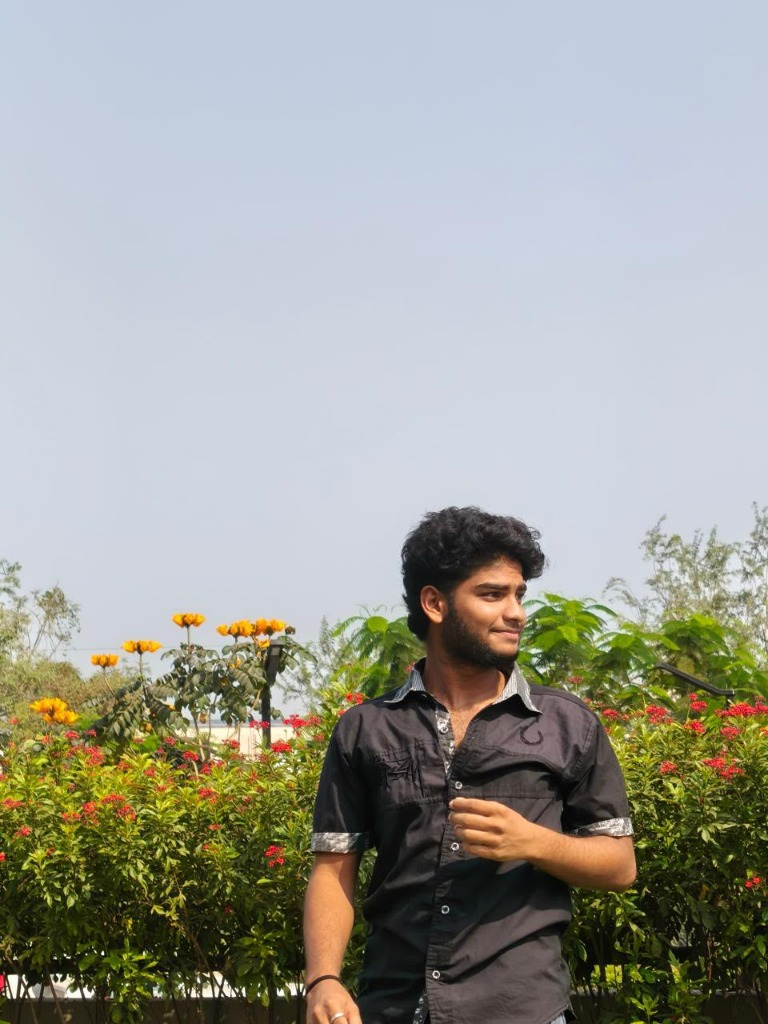
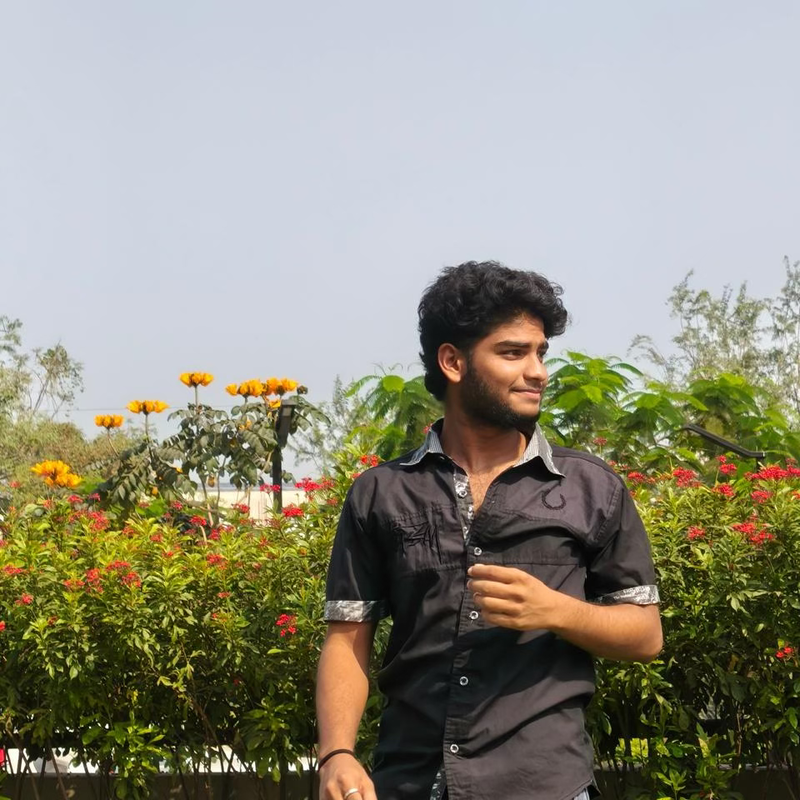
fix: update team profile photos to local assets and names

diff --git a/src/pages/LandingPage.tsx b/src/pages/LandingPage.tsx
@@ -493,27 +493,28 @@ export const LandingPage: React.FC = () => {
               {
                 name: "Chaitanya",
                 role: "Backend Developer",
-                image: "https://media.licdn.com/dms/image/v2/D5635AQFM2J_fwboIyA/profile-framedphoto-shrink_800_800/B56Z5pFAcCHkAY-/0/1779879381079?e=1788242400&v=beta&t=_nNuJ2Objk2Ya3RGUhMv2ZyybtHfLmjCGqQUPEgd-os",
+                image: "/chaitanya.png",
                 github: "https://github.com/GUTHACHAITANYA",
                 linkedin: "https://www.linkedin.com/in/gutha-chaitanya-282a27353/"
               },
               {
                 name: "Bharath Kumar",
                 role: "Backend Developer",
-                image: "https://media.licdn.com/dms/image/v2/D4D03AQFbDG1cuOPM1w/profile-displayphoto-crop_800_800/B4DZ2FtJOPJ4AI-/0/1776064705322?e=1787788800&v=beta&t=LaX_W2oxHoihGIroZtWhSs5frYmtim25_QFJKyuk7ps",
+                image: "/bharath.png",
+                github: "https://github.com/Kuruva-Bharath",
                 linkedin: "https://www.linkedin.com/in/bharath-kumar-kuruva-513195317/"
               },
               {
                 name: "Sai Krishna",
                 role: "Lead Full Stack Developer",
-                image: "https://media.licdn.com/dms/image/v2/D5603AQEDFlDSWh--aw/profile-displayphoto-crop_800_800/B56Z4asTS1KQAI-/0/1778564281746?e=1787788800&v=beta&t=IVhnmNc75BfLN7Erv2F9jGO5-Pg3HZ-qWfPrSwEyFk4",
+                image: "/saikrishna.png",
                 github: "https://github.com/Saikrishna1124",
                 linkedin: "https://www.linkedin.com/in/sai-krishna-gummadidala-261984354/"
               },
               {
-                name: "Tarun",
+                name: "Tarun Muriki",
                 role: "Database Engineer",
-                image: "https://media.licdn.com/dms/image/v2/D4D03AQEh60WZpWWU5g/profile-displayphoto-crop_800_800/B4DZ1YGbjjHkAI-/0/1775299575532?e=1788998400&v=beta&t=stsKmWulS5UlmxqfX9sS4Tz7gdOW337Bw1_4RWWV4-4",
+                image: "/tarun.jpg",
                 github: "https://github.com/Tarunmuriki",
                 linkedin: "https://www.linkedin.com/in/muriki-tarun/"
               },
@@ -528,27 +529,28 @@ export const LandingPage: React.FC = () => {
               {
                 name: "Sai Krishna",
                 role: "Lead Full Stack Developer",
-                image: "https://media.licdn.com/dms/image/v2/D5603AQEDFlDSWh--aw/profile-displayphoto-crop_800_800/B56Z4asTS1KQAI-/0/1778564281746?e=1787788800&v=beta&t=IVhnmNc75BfLN7Erv2F9jGO5-Pg3HZ-qWfPrSwEyFk4",
+                image: "/saikrishna.png",
                 github: "https://github.com/Saikrishna1124",
                 linkedin: "https://www.linkedin.com/in/sai-krishna-gummadidala-261984354/"
               },
               {
                 name: "Bharath Kumar",
                 role: "Backend Developer",
-                image: "https://media.licdn.com/dms/image/v2/D4D03AQFbDG1cuOPM1w/profile-displayphoto-crop_800_800/B4DZ2FtJOPJ4AI-/0/1776064705322?e=1787788800&v=beta&t=LaX_W2oxHoihGIroZtWhSs5frYmtim25_QFJKyuk7ps",
+                image: "/bharath.png",
+                github: "https://github.com/Kuruva-Bharath",
                 linkedin: "https://www.linkedin.com/in/bharath-kumar-kuruva-513195317/"
               },
               {
                 name: "Chaitanya",
                 role: "Backend Developer",
-                image: "https://media.licdn.com/dms/image/v2/D5635AQFM2J_fwboIyA/profile-framedphoto-shrink_800_800/B56Z5pFAcCHkAY-/0/1779879381079?e=1788242400&v=beta&t=_nNuJ2Objk2Ya3RGUhMv2ZyybtHfLmjCGqQUPEgd-os",
+                image: "/chaitanya.png",
                 github: "https://github.com/GUTHACHAITANYA",
                 linkedin: "https://www.linkedin.com/in/gutha-chaitanya-282a27353/"
               },
               {
-                name: "Tarun",
+                name: "Tarun Muriki",
                 role: "Database Engineer",
-                image: "https://media.licdn.com/dms/image/v2/D4D03AQEh60WZpWWU5g/profile-displayphoto-crop_800_800/B4DZ1YGbjjHkAI-/0/1775299575532?e=1788998400&v=beta&t=stsKmWulS5UlmxqfX9sS4Tz7gdOW337Bw1_4RWWV4-4",
+                image: "/tarun.jpg",
                 github: "https://github.com/Tarunmuriki",
                 linkedin: "https://www.linkedin.com/in/muriki-tarun/"
               },
